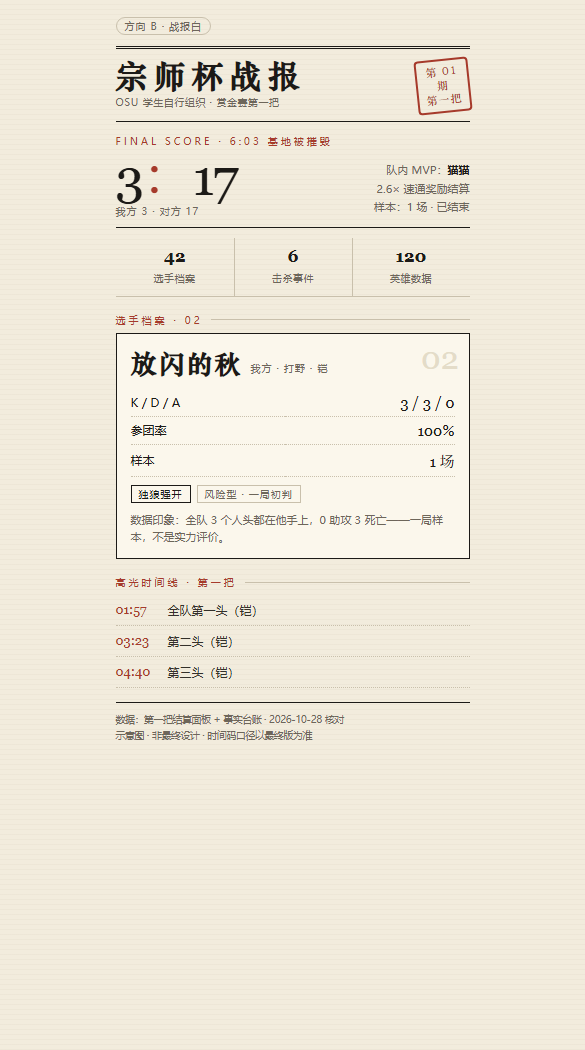
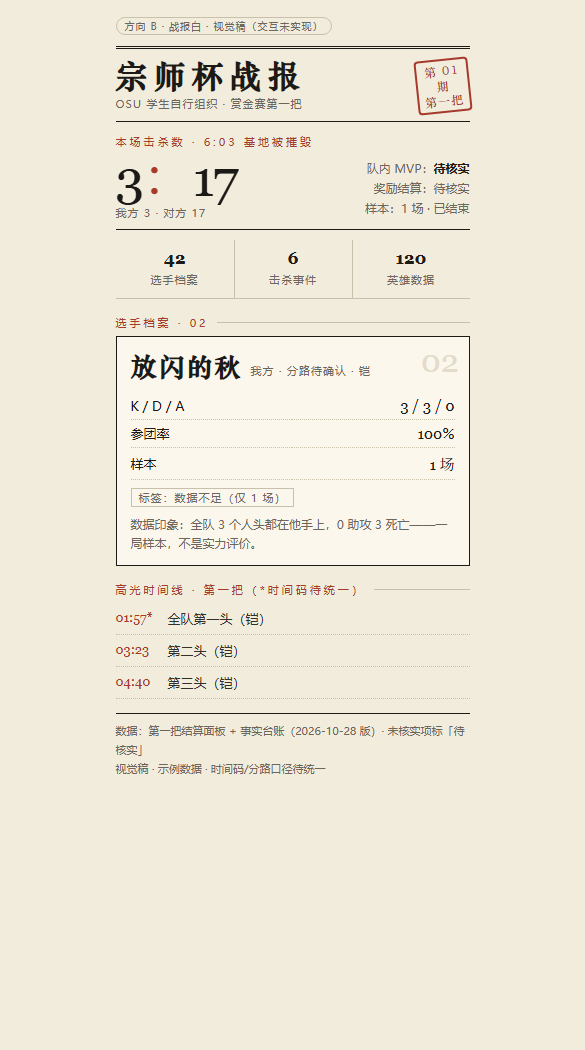
M0.2: 按 Codex 初审修订大纲与 mockup（待核实标注 / 稳定标签 / 字级 / B 去纸纹）

diff --git a/mockups/style_b.html b/mockups/style_b.html
@@ -7,49 +7,49 @@
 <style>
 :root{--paper:#f2ecdd;--card:#fbf7ec;--ink:#1c1a17;--red:#a63a2b;--gold:#8a6d2f;--muted:#6d665a;--line:#c9c0ac}
 *{box-sizing:border-box}
-body{margin:0;background:var(--paper);color:var(--ink);font-family:"STZhongsong","SimSun","Songti SC",serif;min-height:100vh;background-image:repeating-linear-gradient(0deg,rgba(120,100,70,.04) 0,rgba(120,100,70,.04) 1px,transparent 1px,transparent 5px)}
+body{margin:0;background:var(--paper);color:var(--ink);font-family:"STZhongsong","SimSun","Songti SC",serif;min-height:100vh}
 .screen{max-width:390px;margin:0 auto;padding:14px 18px 26px}
 .dir{display:inline-block;padding:1px 8px;border:1px solid var(--line);border-radius:99px;font-size:10px;color:var(--muted);letter-spacing:1px;font-family:"Microsoft YaHei",sans-serif}
 .masthead{display:flex;justify-content:space-between;align-items:flex-start;border-top:3px double var(--ink);border-bottom:1px solid var(--ink);padding:10px 0 8px;margin-top:10px}
 .masthead h1{margin:0;font-size:32px;letter-spacing:6px;line-height:1}
-.masthead .sub{font-size:9.5px;color:var(--muted);letter-spacing:1px;margin-top:5px;font-family:"Microsoft YaHei",sans-serif}
-.stamp{width:54px;height:54px;border:2px solid var(--red);color:var(--red);border-radius:4px;display:flex;align-items:center;justify-content:center;text-align:center;font-size:11px;line-height:1.25;letter-spacing:1px;transform:rotate(-6deg);padding:4px;flex:none}
-.kicker{font-family:"Microsoft YaHei",sans-serif;font-size:10px;letter-spacing:3px;color:var(--red);margin:12px 0 4px}
+.masthead .sub{font-size:11px;color:var(--muted);letter-spacing:1px;margin-top:5px;font-family:"Microsoft YaHei",sans-serif}
+.stamp{width:54px;height:54px;border:2px solid var(--red);color:var(--red);border-radius:4px;display:flex;align-items:center;justify-content:center;text-align:center;font-size:12px;line-height:1.25;letter-spacing:1px;transform:rotate(-6deg);padding:4px;flex:none}
+.kicker{font-family:"Microsoft YaHei",sans-serif;font-size:11px;letter-spacing:3px;color:var(--red);margin:12px 0 4px}
 .scoreblock{display:flex;align-items:flex-end;justify-content:space-between;border-bottom:1px solid var(--ink);padding-bottom:10px}
 .score{font-family:Georgia,"Times New Roman",serif;font-size:52px;line-height:.95;letter-spacing:-2px}
 .score em{font-style:normal;color:var(--red)}
-.score small{display:block;font-family:"Microsoft YaHei",sans-serif;font-size:10px;color:var(--muted);letter-spacing:1px;margin-top:6px}
-.scoremeta{text-align:right;font-family:"Microsoft YaHei",sans-serif;font-size:11px;line-height:1.7;color:var(--muted)}
+.score small{display:block;font-family:"Microsoft YaHei",sans-serif;font-size:11px;color:var(--muted);letter-spacing:1px;margin-top:6px}
+.scoremeta{text-align:right;font-family:"Microsoft YaHei",sans-serif;font-size:12px;line-height:1.7;color:var(--muted)}
 .scoremeta b{color:var(--ink)}
 .strip{display:grid;grid-template-columns:repeat(3,1fr);border-bottom:1px solid var(--line);margin-top:10px}
 .strip div{padding:8px 4px;text-align:center;border-left:1px solid var(--line)}
 .strip div:first-child{border-left:none}
 .strip b{display:block;font-family:Georgia,serif;font-size:17px}
-.strip span{font-family:"Microsoft YaHei",sans-serif;font-size:9.5px;color:var(--muted);letter-spacing:1px}
-.section{font-family:"Microsoft YaHei",sans-serif;font-size:10px;letter-spacing:3px;color:var(--red);margin:16px 0 6px;display:flex;align-items:center;gap:8px}
+.strip span{font-family:"Microsoft YaHei",sans-serif;font-size:11px;color:var(--muted);letter-spacing:1px}
+.section{font-family:"Microsoft YaHei",sans-serif;font-size:11px;letter-spacing:3px;color:var(--red);margin:16px 0 6px;display:flex;align-items:center;gap:8px}
 .section:after{content:"";flex:1;border-top:1px solid var(--line)}
 .profile{background:var(--card);border:1px solid var(--ink);padding:12px 14px;position:relative}
 .profile:after{content:"02";position:absolute;right:10px;top:8px;font:32px Georgia,serif;color:#e4dcc8;line-height:1}
 .ptop{display:flex;align-items:baseline;gap:8px}
 .pname{font-size:26px;letter-spacing:2px;font-weight:700}
-.prole{font-family:"Microsoft YaHei",sans-serif;font-size:10px;color:var(--muted);letter-spacing:1px}
-table{width:100%;border-collapse:collapse;margin-top:8px;font-family:"Microsoft YaHei",sans-serif;font-size:12px}
+.prole{font-family:"Microsoft YaHei",sans-serif;font-size:11px;color:var(--muted);letter-spacing:1px}
+table{width:100%;border-collapse:collapse;margin-top:8px;font-family:"Microsoft YaHei",sans-serif;font-size:13px}
 td{padding:5px 0;border-bottom:1px dotted var(--line)}
 td:last-child{text-align:right;font-family:Georgia,serif;font-size:15px}
-.note{font-family:"Microsoft YaHei",sans-serif;font-size:11px;color:var(--muted);line-height:1.6;margin-top:8px}
+.note{font-family:"Microsoft YaHei",sans-serif;font-size:12px;color:var(--muted);line-height:1.6;margin-top:8px}
 .tags{display:flex;gap:6px;flex-wrap:wrap;margin-top:8px;font-family:"Microsoft YaHei",sans-serif}
-.tag{font-size:10px;border:1px solid var(--ink);padding:1px 7px;letter-spacing:1px}
+.tag{font-size:11px;border:1px solid var(--ink);padding:1px 7px;letter-spacing:1px}
 .tag.gray{border-color:var(--line);color:var(--muted)}
-.tl{margin-top:6px;font-family:"Microsoft YaHei",sans-serif;font-size:12px}
+.tl{margin-top:6px;font-family:"Microsoft YaHei",sans-serif;font-size:13px}
 .ev{display:flex;gap:10px;padding:7px 0;border-bottom:1px dotted var(--line)}
 .ev time{font-family:Georgia,serif;color:var(--red);min-width:42px;font-size:13px}
 .ev p{margin:0;color:#33302a}
-.src{margin-top:14px;border-top:1px solid var(--ink);padding-top:8px;font-family:"Microsoft YaHei",sans-serif;font-size:9.5px;color:var(--muted);line-height:1.7}
+.src{margin-top:14px;border-top:1px solid var(--ink);padding-top:8px;font-family:"Microsoft YaHei",sans-serif;font-size:11px;color:var(--muted);line-height:1.7}
 </style>
 </head>
 <body>
 <div class="screen">
-  <div class="dir">方向 B · 战报白</div>
+  <div class="dir">方向 B · 战报白 · 视觉稿（交互未实现）</div>
 
   <div class="masthead">
     <div>
@@ -59,12 +59,12 @@ td:last-child{text-align:right;font-family:Georgia,serif;font-size:15px}
     <div class="stamp">第 01 期<br/>第一把</div>
   </div>
 
-  <div class="kicker">FINAL SCORE · 6:03 基地被摧毁</div>
+  <div class="kicker">本场击杀数 · 6:03 基地被摧毁</div>
   <div class="scoreblock">
     <div class="score">3<em>：</em>17<small>我方 3 · 对方 17</small></div>
     <div class="scoremeta">
-      队内 MVP：<b>猫猫</b><br/>
-      2.6× 速通奖励结算<br/>
+      队内 MVP：<b>待核实</b><br/>
+      奖励结算：待核实<br/>
       样本：1 场 · 已结束
     </div>
   </div>
@@ -77,24 +77,24 @@ td:last-child{text-align:right;font-family:Georgia,serif;font-size:15px}
 
   <div class="section">选手档案 · 02</div>
   <div class="profile">
-    <div class="ptop"><div class="pname">放闪的秋</div><div class="prole">我方 · 打野 · 铠</div></div>
+    <div class="ptop"><div class="pname">放闪的秋</div><div class="prole">我方 · 分路待确认 · 铠</div></div>
     <table>
       <tr><td>K / D / A</td><td>3 / 3 / 0</td></tr>
       <tr><td>参团率</td><td>100%</td></tr>
       <tr><td>样本</td><td>1 场</td></tr>
     </table>
-    <div class="tags"><span class="tag">独狼强开</span><span class="tag gray">风险型 · 一局初判</span></div>
+    <div class="tags"><span class="tag gray">标签：数据不足（仅 1 场）</span></div>
     <div class="note">数据印象：全队 3 个人头都在他手上，0 助攻 3 死亡——一局样本，不是实力评价。</div>
   </div>
 
-  <div class="section">高光时间线 · 第一把</div>
+  <div class="section">高光时间线 · 第一把（*时间码待统一）</div>
   <div class="tl">
-    <div class="ev"><time>01:57</time><p>全队第一头（铠）</p></div>
+    <div class="ev"><time>01:57*</time><p>全队第一头（铠）</p></div>
     <div class="ev"><time>03:23</time><p>第二头（铠）</p></div>
     <div class="ev"><time>04:40</time><p>第三头（铠）</p></div>
   </div>
 
-  <div class="src">数据：第一把结算面板 + 事实台账 · 2026-10-28 核对<br/>示意图 · 非最终设计 · 时间码口径以最终版为准</div>
+  <div class="src">数据：第一把结算面板 + 事实台账（2026-10-28 版）· 未核实项标「待核实」<br/>视觉稿 · 示例数据 · 时间码/分路口径待统一</div>
 </div>
 </body>
 </html>

diff --git a/mockups/style_c.html b/mockups/style_c.html
@@ -9,48 +9,48 @@
 *{box-sizing:border-box}
 body{margin:0;background:var(--cream);color:var(--ink);font-family:"Microsoft YaHei","PingFang SC",sans-serif;min-height:100vh;background-image:radial-gradient(rgba(17,17,17,.14) 1px,transparent 1px);background-size:8px 8px}
 .screen{max-width:390px;margin:0 auto;padding:14px 16px 28px}
-.dir{display:inline-block;padding:1px 8px;border:1.5px solid var(--ink);border-radius:99px;font-size:10px;background:#fff;letter-spacing:1px}
+.dir{display:inline-block;padding:1px 8px;border:1.5px solid var(--ink);border-radius:99px;font-size:11px;background:#fff;letter-spacing:1px}
 .topbar{display:flex;align-items:center;justify-content:space-between;margin-top:10px}
 .logo{background:var(--blue);color:#fff;font-weight:900;font-size:22px;letter-spacing:2px;padding:4px 10px;border:3px solid var(--ink);box-shadow:4px 4px 0 var(--ink);transform:rotate(-2deg)}
 .nav{display:flex;gap:6px}
-.nav span{font-size:10px;background:#fff;border:2px solid var(--ink);padding:2px 7px;font-weight:700}
+.nav span{font-size:11px;background:#fff;border:2px solid var(--ink);padding:2px 7px;font-weight:700}
 .nav .on{background:var(--yellow)}
 .hero{margin-top:16px;position:relative}
-.tape{display:inline-block;background:var(--yellow);border:2px solid var(--ink);font-size:10px;font-weight:700;padding:2px 9px;letter-spacing:1px;transform:rotate(-2deg)}
+.tape{display:inline-block;background:var(--yellow);border:2px solid var(--ink);font-size:11px;font-weight:700;padding:2px 9px;letter-spacing:1px;transform:rotate(-2deg)}
 .score{border:3px solid var(--ink);background:#fff;box-shadow:6px 6px 0 var(--ink);padding:12px 14px 14px;margin-top:8px;position:relative}
 .score .big{font-family:Impact,"Arial Black",sans-serif;font-size:58px;line-height:1;letter-spacing:-1px}
 .score .big em{font-style:normal;color:var(--red)}
-.score .sub{font-size:11px;font-weight:700;margin-top:2px}
-.sticker{position:absolute;right:10px;top:14px;background:var(--red);color:#fff;border:2px solid var(--ink);font-size:11px;font-weight:800;padding:6px 8px;transform:rotate(6deg);box-shadow:3px 3px 0 var(--ink);line-height:1.3;text-align:center}
+.score .sub{font-size:12px;font-weight:700;margin-top:2px}
+.sticker{position:absolute;right:10px;top:14px;background:var(--red);color:#fff;border:2px solid var(--ink);font-size:12px;font-weight:800;padding:6px 8px;transform:rotate(6deg);box-shadow:3px 3px 0 var(--ink);line-height:1.3;text-align:center}
 .cta{display:inline-block;margin-top:10px;background:var(--blue);color:#fff;border:3px solid var(--ink);box-shadow:4px 4px 0 var(--ink);font-weight:900;font-size:13px;padding:7px 14px;text-decoration:none}
 .tiles{display:grid;grid-template-columns:repeat(3,1fr);gap:8px;margin-top:16px}
 .tile{background:#fff;border:3px solid var(--ink);padding:8px 4px;text-align:center;box-shadow:3px 3px 0 var(--ink)}
 .tile b{display:block;font-family:Impact,"Arial Black",sans-serif;font-size:20px;letter-spacing:1px}
-.tile span{font-size:9.5px;font-weight:700}
+.tile span{font-size:11px;font-weight:700}
 .pcard{margin-top:18px;background:#fff;border:3px solid var(--ink);box-shadow:6px 6px 0 var(--ink);padding:12px;position:relative;transform:rotate(.4deg)}
 .pcard .no{position:absolute;right:10px;top:10px;font-family:Impact,"Arial Black",sans-serif;font-size:13px;background:var(--yellow);border:2px solid var(--ink);padding:1px 6px;transform:rotate(4deg)}
 .pname{font-weight:900;font-size:26px;letter-spacing:1px;line-height:1.1}
-.prole{font-size:10.5px;font-weight:700;color:var(--muted);margin-top:3px}
+.prole{font-size:11.5px;font-weight:700;color:var(--muted);margin-top:3px}
 .phero{display:inline-block;margin-top:6px;background:var(--blue);color:#fff;border:2px solid var(--ink);font-size:10px;font-weight:800;padding:1px 8px}
 .pstats{display:grid;grid-template-columns:repeat(3,1fr);gap:6px;margin-top:10px}
 .pstat{border:2px solid var(--ink);padding:6px 4px;text-align:center;background:var(--cream)}
 .pstat b{display:block;font-family:Impact,"Arial Black",sans-serif;font-size:17px;letter-spacing:.5px}
-.pstat span{font-size:9px;font-weight:700}
+.pstat span{font-size:10.5px;font-weight:700}
 .tags{display:flex;gap:6px;flex-wrap:wrap;margin-top:10px}
-.tag{font-size:9.5px;font-weight:800;border:2px solid var(--ink);padding:2px 7px;background:var(--yellow);transform:rotate(-2deg)}
+.tag{font-size:11px;font-weight:800;border:2px solid var(--ink);padding:2px 7px;background:var(--yellow);transform:rotate(-2deg)}
 .tag.gray{background:#fff;color:var(--muted);border-style:dashed;transform:rotate(1deg)}
 .tl{margin-top:18px;background:var(--yellow);border:3px solid var(--ink);box-shadow:6px 6px 0 var(--ink);padding:10px 12px}
 .tl h3{margin:0 0 6px;font-size:12px;font-weight:900;letter-spacing:1px}
-.ev{display:flex;gap:8px;font-size:11.5px;font-weight:700;padding:5px 0;border-bottom:2px dashed rgba(17,17,17,.35)}
+.ev{display:flex;gap:8px;font-size:12.5px;font-weight:700;padding:5px 0;border-bottom:2px dashed rgba(17,17,17,.35)}
 .ev:last-of-type{border-bottom:none}
 .ev time{font-family:Impact,"Arial Black",sans-serif;min-width:44px;letter-spacing:.5px}
-.src{margin-top:14px;background:#fff;border:2px solid var(--ink);padding:8px 10px;font-size:9.5px;line-height:1.6;color:var(--muted);font-weight:600}
-.share{display:inline-block;margin-top:12px;font-size:11px;font-weight:900;border:2px solid var(--ink);background:#fff;padding:4px 10px;box-shadow:3px 3px 0 var(--ink);transform:rotate(-1deg)}
+.src{margin-top:14px;background:#fff;border:2px solid var(--ink);padding:8px 10px;font-size:11px;line-height:1.6;color:var(--muted);font-weight:600}
+.share{display:inline-block;margin-top:12px;font-size:12px;font-weight:900;border:2px solid var(--ink);background:#fff;padding:4px 10px;box-shadow:3px 3px 0 var(--ink);transform:rotate(-1deg)}
 </style>
 </head>
 <body>
 <div class="screen">
-  <div class="dir">方向 C · 潮流贴纸</div>
+  <div class="dir">方向 C · 潮流贴纸 · 视觉稿（交互未实现）</div>
 
   <div class="topbar">
     <div class="logo">宗师杯</div>
@@ -62,7 +62,7 @@ body{margin:0;background:var(--cream);color:var(--ink);font-family:"Microsoft Ya
     <div class="score">
       <div class="big">3<em>:</em>17</div>
       <div class="sub">6:03 基地被摧毁 · 1 场样本</div>
-      <div class="sticker">6:03<br/>没了</div>
+      <div class="sticker">6:03<br/>基地摧毁</div>
       <a class="cta" href="#">看战报 →</a>
     </div>
   </div>
@@ -76,25 +76,25 @@ body{margin:0;background:var(--cream);color:var(--ink);font-family:"Microsoft Ya
   <div class="pcard">
     <div class="no">02/42</div>
     <div class="pname">放闪的秋</div>
-    <div class="prole">我方 · 打野 · 铠 · 一局数据</div>
-    <span class="phero">本场全队火力点</span>
+    <div class="prole">我方 · 分路待确认 · 铠 · 1 场数据</div>
+    <span class="phero">1 场样本 · 示例</span>
     <div class="pstats">
-      <div class="pstat"><b>3/3/0</b><span>KDA</span></div>
+      <div class="pstat"><b>3/3/0</b><span>K / D / A</span></div>
       <div class="pstat"><b>100%</b><span>参团率</span></div>
       <div class="pstat"><b>1 场</b><span>样本</span></div>
     </div>
-    <div class="tags"><span class="tag">独狼强开</span><span class="tag gray">风险型 · 一局初判</span></div>
+    <div class="tags"><span class="tag gray">标签：数据不足（仅 1 场）</span></div>
   </div>
 
   <div class="tl">
-    <h3>高光时间线</h3>
-    <div class="ev"><time>01:57</time><p>全队第一头（铠）</p></div>
+    <h3>高光时间线 *</h3>
+    <div class="ev"><time>01:57*</time><p>全队第一头（铠）</p></div>
     <div class="ev"><time>03:23</time><p>第二头（铠）</p></div>
     <div class="ev"><time>04:40</time><p>第三头（铠）</p></div>
   </div>
 
   <span class="share">保存卡片 · 分享给队友</span>
-  <div class="src">数据：第一把结算面板 + 事实台账 · 2026-10-28 核对<br/>示意图 · 非最终设计 · 时间码口径以最终版为准</div>
+  <div class="src">数据：第一把结算面板 + 事实台账（2026-10-28 版）· 未核实项标「待核实」<br/>视觉稿 · 示例数据 · 时间码/分路口径待统一</div>
 </div>
 </body>
 </html>

diff --git a/mockups/style_a.html b/mockups/style_a.html
@@ -14,42 +14,42 @@ body{margin:0;background:radial-gradient(120% 60% at 50% 0%,#2a2110 0%,#0a0c11 5
 .seal{width:32px;height:32px;border:2px solid var(--gold);border-radius:6px;display:flex;align-items:center;justify-content:center;font:700 15px/1 "STKaiti","KaiTi",serif;color:var(--gold);letter-spacing:-1px}
 .brand b{font-size:16px;letter-spacing:2px;display:block;line-height:1.1}
 .brand span{font-size:9px;color:var(--muted);letter-spacing:1px}
-.nav{font-size:11px;color:var(--muted);display:flex;gap:10px}
+.nav{font-size:12px;color:var(--muted);display:flex;gap:10px}
 .nav .on{color:var(--gold)}
-.dir{display:inline-block;margin:12px 0 0;padding:2px 8px;border:1px solid var(--line);border-radius:99px;font-size:10px;color:var(--muted);letter-spacing:1px}
+.dir{display:inline-block;margin:12px 0 0;padding:2px 8px;border:1px solid var(--line);border-radius:99px;font-size:11px;color:var(--muted);letter-spacing:1px}
 .hero{margin-top:10px;padding:18px 16px 16px;border:1px solid rgba(232,168,50,.25);border-radius:14px;background:linear-gradient(160deg,rgba(232,168,50,.10),rgba(20,24,36,.6));position:relative;overflow:hidden}
 .hero:after{content:"";position:absolute;right:-40px;top:-60px;width:160px;height:160px;background:radial-gradient(circle,rgba(232,168,50,.25),transparent 70%)}
-.match-label{font-size:11px;color:var(--gold);letter-spacing:2px}
+.match-label{font-size:12px;color:var(--gold);letter-spacing:2px}
 .score{display:flex;align-items:baseline;gap:10px;margin:8px 0 2px;font-family:Consolas,monospace}
 .score b{font-size:46px;line-height:1;color:var(--text)}
 .score i{font-style:normal;font-size:22px;color:var(--muted)}
 .score .lose{color:#ff7b6b}
-.meta{font-size:12px;color:var(--muted)}
+.meta{font-size:13px;color:var(--muted)}
 .cta{display:inline-block;margin-top:12px;background:var(--gold);color:#141005;font-weight:700;font-size:13px;padding:8px 16px;border-radius:8px;text-decoration:none}
 .tiles{display:grid;grid-template-columns:repeat(3,1fr);gap:8px;margin-top:12px}
 .tile{background:var(--card);border:1px solid var(--line);border-radius:10px;padding:10px 8px;text-align:center}
 .tile b{display:block;font-size:17px;color:var(--gold)}
-.tile span{font-size:10px;color:var(--muted)}
+.tile span{font-size:11px;color:var(--muted)}
 .pcard{margin-top:14px;background:var(--card);border:1px solid var(--line);border-radius:14px;padding:14px;position:relative}
 .pcard:before{content:"";position:absolute;left:0;top:14px;bottom:14px;width:3px;background:var(--gold);border-radius:3px}
 .ptop{display:flex;justify-content:space-between;align-items:flex-start;padding-left:8px}
 .pname{font-size:22px;font-weight:800;letter-spacing:1px}
-.prole{font-size:11px;color:var(--muted);margin-top:2px}
+.prole{font-size:12px;color:var(--muted);margin-top:2px}
 .phero{font-size:11px;color:var(--gold);border:1px solid rgba(232,168,50,.35);border-radius:6px;padding:3px 8px;white-space:nowrap}
 .pstats{display:grid;grid-template-columns:repeat(3,1fr);gap:8px;margin-top:12px}
 .pstat{background:#0e1119;border:1px solid var(--line);border-radius:8px;padding:8px;text-align:center}
 .pstat b{display:block;font:700 17px/1.2 Consolas,monospace;color:var(--gold2)}
-.pstat span{font-size:10px;color:var(--muted)}
+.pstat span{font-size:11px;color:var(--muted)}
 .tags{display:flex;gap:6px;flex-wrap:wrap;margin-top:10px}
-.tag{font-size:10px;color:var(--gold);background:rgba(232,168,50,.1);border:1px solid rgba(232,168,50,.25);border-radius:99px;padding:2px 8px}
+.tag{font-size:11px;color:var(--gold);background:rgba(232,168,50,.1);border:1px solid rgba(232,168,50,.25);border-radius:99px;padding:2px 8px}
 .tag.gray{color:var(--muted);background:transparent;border-color:var(--line)}
 .tl{margin-top:14px;background:var(--card);border:1px solid var(--line);border-radius:14px;padding:14px}
-.tl h3{margin:0 0 10px;font-size:12px;color:var(--gold);letter-spacing:1px}
-.ev{display:flex;gap:10px;font-size:12px;padding:7px 0;border-top:1px dashed #222733}
+.tl h3{margin:0 0 10px;font-size:13px;color:var(--gold);letter-spacing:1px}
+.ev{display:flex;gap:10px;font-size:13px;padding:7px 0;border-top:1px dashed #222733}
 .ev:first-of-type{border-top:none}
 .ev time{font-family:Consolas,monospace;color:var(--gold);min-width:44px}
 .ev p{margin:0;color:#c9cbd6}
-.src{margin-top:14px;font-size:10px;color:var(--muted);line-height:1.6;border-top:1px solid var(--line);padding-top:10px}
+.src{margin-top:14px;font-size:11px;color:var(--muted);line-height:1.6;border-top:1px solid var(--line);padding-top:10px}
 </style>
 </head>
 <body>
@@ -58,42 +58,42 @@ body{margin:0;background:radial-gradient(120% 60% at 50% 0%,#2a2110 0%,#0a0c11 5
     <div class="brand"><div class="seal">宗</div><div><b>宗师杯</b><span>OSU 学生自行组织</span></div></div>
     <div class="nav"><span class="on">首页</span><span>战报</span><span>选手</span><span>数据</span></div>
   </div>
-  <div class="dir">方向 A · 夜战金</div>
+  <div class="dir">方向 A · 夜战金 · 视觉稿（交互未实现）</div>
 
   <div class="hero">
-    <div class="match-label">赏金赛 · 第一把 · 已结束</div>
+    <div class="match-label">赏金赛 · 第一把 · 已结束 · 击杀数</div>
     <div class="score"><b>3</b><i>:</i><b class="lose">17</b></div>
-    <div class="meta">6:03 基地被摧毁 · 队内 MVP：猫猫（沈梦溪）</div>
+    <div class="meta">6:03 基地被摧毁 · MVP 待核实</div>
     <a class="cta" href="#">看战报 →</a>
   </div>
 
   <div class="tiles">
     <div class="tile"><b>42</b><span>选手档案</span></div>
-    <div class="tile"><b>6</b><span>击杀时间线</span></div>
+    <div class="tile"><b>6</b><span>本场击杀事件</span></div>
     <div class="tile"><b>120</b><span>英雄数据</span></div>
   </div>
 
   <div class="pcard">
     <div class="ptop">
-      <div><div class="pname">放闪的秋</div><div class="prole">我方 · 打野 · 一场数据</div></div>
+      <div><div class="pname">放闪的秋</div><div class="prole">我方 · 分路待确认 · 1 场数据</div></div>
       <div class="phero">铠</div>
     </div>
     <div class="pstats">
-      <div class="pstat"><b>3/3/0</b><span>KDA</span></div>
+      <div class="pstat"><b>3/3/0</b><span>K / D / A</span></div>
       <div class="pstat"><b>100%</b><span>参团率</span></div>
       <div class="pstat"><b>1 场</b><span>样本</span></div>
     </div>
-    <div class="tags"><span class="tag">独狼强开</span><span class="tag gray">风险型 · 一局初判</span></div>
+    <div class="tags"><span class="tag gray">标签：数据不足（仅 1 场）</span></div>
   </div>
 
   <div class="tl">
-    <h3>高光时间线</h3>
-    <div class="ev"><time>01:57</time><p>全队第一头（铠）</p></div>
+    <h3>高光时间线 · *口径待统一</h3>
+    <div class="ev"><time>01:57*</time><p>全队第一头（铠）</p></div>
     <div class="ev"><time>03:23</time><p>第二头（铠）</p></div>
     <div class="ev"><time>04:40</time><p>第三头（铠）</p></div>
   </div>
 
-  <div class="src">数据：第一把结算面板 + 事实台账 · 2026-10-28 核对<br/>示意图 · 非最终设计 · 时间码口径以最终版为准</div>
+  <div class="src">数据：第一把结算面板 + 事实台账（2026-10-28 版）· 未核实项标「待核实」<br/>视觉稿 · 示例数据 · 时间码/分路口径待统一</div>
 </div>
 </body>
 </html>

diff --git a/reviews/codex_review_01.md b/reviews/codex_review_01.md
@@ -1,0 +1,58 @@
+## 1. 总裁决：CHANGES
+
+已审阅大纲、三个 HTML 及附图。本次不批准进入全站批量实现；可先修订大纲与样板页。以下按优先级列出必须修改项：
+
+1. **P0｜未确认信息仍以确定事实展示。** 大纲 §8.1 明列“第一头 01:56/01:57、S2 分路确认”待修正，但三版均写死 `01:57` 和“打野”。应在对应位置写「待核实」，确认后再填值；页尾“以最终版为准”不能替代逐项标注。
+2. **P0｜奖励与核对日期缺少可追溯依据。** B 写“2.6× 速通奖励结算”，三版写“2026-10-28 核对”，但本次审阅文件未提供对应规则、结算凭据或核对记录。不能据此断言编造，但不能批准为已确认事实：奖励写「待公布」或「待核实」，日期未确认写「待核实」，补证后恢复。
+3. **P0｜公开标签违反大纲自己的发布规则。** 三版均展示“独狼强开”“风险型 · 一局初判”，未附“五组阈值全中”的通过证据。删去未经验证标签，改为“标签：数据不足”；“一局初判”不能作为公开不稳定标签的豁免。
+4. **P0｜自填发布范围可能越过隐私红线。** 大纲允许自述、名场面和代表英雄，但未约束输入内容与导出内容。明确禁止发布真实姓名、学校、联系方式等；本地公开开关不能直接决定上线，必须经人工审核后进入公开数据。
+5. **P1｜选手合并与身份归属不足以保证一人一页。** “同昵称＋同队伍”不能保证同一人；“这是我的页面”也不能证明归属。建立独立稳定 ID、待确认合并表及人工确认记录，未确认不合并、不覆盖。
+6. **P1｜审核缺少可复核基准。** 每份审核绑定提交 SHA、文件范围、截图与验证结果；关闭问题需逐项附修改证据。新增数据/schema 审核门，不能等页面完成后才查事实。
+7. **P1｜大纲现状与实现边界需统一。** §3.2“无 Git 仓库”与 §6“已建 private 仓库并推送”冲突；修正状态。另将导航、分享、自填标为“视觉占位／本地原型／已实现”，避免把 `href="#"`、`span` 当作可用功能。
+
+## 2. 大纲问题
+
+| 维度 | 具体问题 | 改法 |
+|---|---|---|
+| 信息架构 | 首页混合全站统计、单场战报、单人档案，三版“6”还分别叫“击杀时间线”“击杀事件”，统计范围不清。 | 首页保留赛事入口与最近战报；单场页承载事件；选手页承载个人数据。“6”核实后写明“本场已收录击杀事件”等准确口径。 |
+| 信息架构 | P0 同时覆盖英雄看板、模型解释、视频等大量页面；§4.2 规定四导航，但 B 无导航，C 把“战报”换成“卡墙”。 | 首批固定“首页／战报／选手／数据”；卡墙放二级。M1 先完成首页→战报→选手→来源的完整路径，其余按内容准备度分批。 |
+| 选手体系 | §3.1 称“六维”，括号实际列了七项；L1/L2/L3 也混合了数据类型与丰富程度。 | 先做字段字典：名称、公式、单位、适用赛事、缺失值。完备度改为字段能力标记，如“有结算／有时间线／有视频”，避免误解为实力等级。 |
+| 选手体系 | `s1-<slug>` 将赛事写进人物 ID；转队、改名、跨赛事合并后维护困难。 | 人物使用不依赖昵称和赛事的 ID；赛事、队伍、昵称历史单独关联；旧 URL 保留跳转。42 人总数在身份确认后由数据生成。 |
+| 工作包拆分 | WP1 同时承担身份、schema、生成器，范围过大；WP4 文案事实审核晚于部分页面实现。 | 拆为“身份与来源契约→数据校验→生成器”；事实状态与字段口径先通过，再生成页面和文案。 |
+| 工作包拆分 | WP6、M3、M4 对在线预览与最终交付的界限不清。 | 明确本地样板、受限预览、可公开分享三个状态；每批交付列出文件、依赖、完成条件、DP 提交项、Codex 审核项。 |
+| Codex 审核机制 | 只有阶段名称，没有阻断标准。 | 将红线违规、身份错配、来源缺失、核心路径不可用列为阻断项；审美建议注明必须修改或可选，避免无限返工。 |
+| Codex 审核机制 | “每包一个 review”未说明修改后的批准是否仍有效。 | 审核记录包含版本、问题状态与复审结论；PASS 后改动相关数据、组件或文案，重新审核受影响范围。 |
+
+“82 项 OK”还应附测试报告路径与对应版本；目前只能视为大纲中的陈述，不能直接作为本轮验收证据。
+
+## 3. UI 审美
+
+**排名：B 战报白 ＞ A 夜战金 ＞ C 潮流贴纸。推荐 B 为全站主方向，C 的贴纸元素仅用于分享卡和卡墙。**
+
+| 方向 | 评价 | 使用建议 |
+|---|---|---|
+| **A 夜战金** | 层级清楚，比分、选手卡、时间线容易区分；但金色同时强调按钮、统计、标签和时间，重点分散，整体辨识度偏常见游戏数据站。比分缺少双方名称。 | 可作为深色备选；减少金色覆盖面，优先强调主操作与关键结果。 |
+| **B 战报白** | 报头、印章、细线与表格形成完整语言，最适合战报和可追溯档案。问题是辅助字过小、纸纹贯穿全文、缺导航与明确入口。 | 推荐主方向；保留报头与编辑排版，正文改用更易读的无衬线字体。 |
+| **C 潮流贴纸** | 远看最醒目，适合分享；但粗边、硬阴影、旋转、点阵和多种强调色同时出现，阅读负担较高。“6:03 没了”有调侃败方的风险，建议改成中性事实。 | 用于独立分享模板；全站正文减少装饰，不直接沿用整套视觉强度。 |
+
+具体改进：
+
+1. **字级统一。** 三版大量文字仅 9–11px。建议正文 14–16px、辅助信息至少 12px、模块标题 18–20px；来源说明不能靠极小字退到不可读。移动导航与按钮预留至少 44px 高的点击区域。
+2. **B 的纸感做减法。** 保留 `#f2ecdd` 页面底色与 `#fbf7ec` 内容底色；表格和正文区域移除横向纹理。红色集中用于栏目标题和印章，保证数字与正文阅读稳定。
+3. **重新标明比分语义。** 将“FINAL SCORE／3:17”改为“本场击杀数”并显示已确认的双方游戏队名或阵营。区分击杀数与系列赛局分；A/C 的 `3/3/0` 标签改为“K / D / A”，避免与计算后的 KDA 比值混淆。
+4. **补窄屏与长内容布局。** 三版均以 `max-width:390px` 为主，尚不能证明手机布局成立。验证 320、390、430px；B 的昵称与位置允许换行，C 的编号贴纸避让长昵称，导航不挤压品牌。
+5. **分享图单独设计。** 不截整张长网页。制作如 1080×1440 的选手卡模板，只放昵称、明确范围的游戏数据、样本量、核实状态和来源入口；移除导航与按钮。未经确认的标签、奖励和日期不得进入分享图。
+
+## 4. 需要 Jason 拍板或补充的信息
+
+1. **主视觉：** 是否采用 B 为主、C 仅用于分享卡与卡墙。
+2. **事实依据：** 提供奖励倍率、MVP、时间码、S2 分路及“2026-10-28 核对”的对应凭据；未补齐前保留「待核实／待公布」。
+3. **身份与公开范围：** 确认 S1/S2 名单、同名合并关系、公开许可，以及隐藏／纠错请求的实际接收方式。
+4. **首批交付范围：** 建议先做完整浏览路径与一个样板选手页，通过后再批量生成；确认是否接受这一顺序。
+5. **对外分享边界：** 首次分享面向内部选手还是公开访问，自填 JSON 由谁接收和审核。页面上的 OSU 组织背景文案也需确认可公开使用；它不应成为选手个人学校字段。
+
+## 5. 给 DP 的下一步
+
+1. **先修订大纲与事实清单：** 逐项记录“字段／值／来源／确认状态／公开范围”，关闭上述 P0 问题，统一仓库状态和统计口径。
+2. **按 B 重做一个可点击样板链路：** 首页→单场战报→选手→来源；提供三种窄屏截图，以及一张独立分享卡，全部使用同一份数据。
+3. **提交复审包：** 附提交 SHA、变更清单、来源凭据、验证结果和逐项问题关闭表；Codex PASS 后再扩展页面数量与互动功能。
